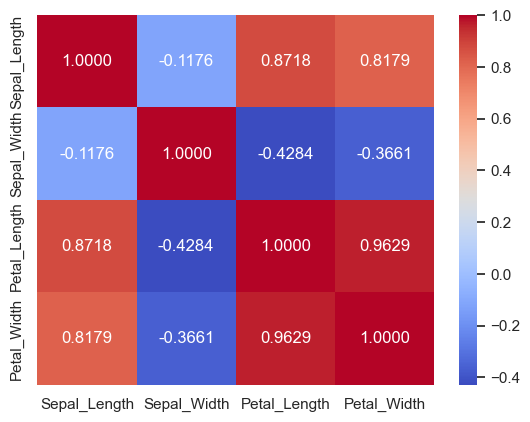
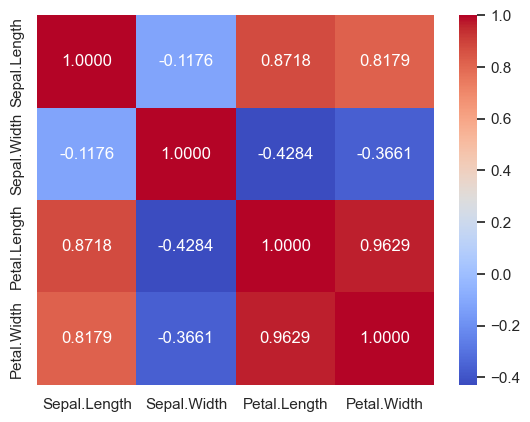
update correlation_analysis update post about correlation_analysis and correlation_coef remove useless image files

diff --git a/_posts/dataanalysis/2023-03-07-correlation_analysis.md b/_posts/dataanalysis/2023-03-07-correlation_analysis.md
@@ -1,0 +1,174 @@
+---
+published: true
+layout: post
+title: '[상관분석] 상관 관계 분석하기'
+description: >
+    Python으로 상관 분석 하는 방법
+categories: [DataAnalysis]
+tags: [correlation, pandas]
+image:
+    path: /assets/img/posts/thumbnail_correlation_coefficient.png
+related_posts:
+    - _posts/dataanalysis/2022-07-15-correlation_coef.md
+---
+* toc
+{:toc}
+
+## 간단한 상관 분석 방법
+
+**상관 분석(correlation analysis)**은 한 변수의 변화에 따른 다른 변수의 변화 정도와 방향(상관 관계)을 확인하는 분석기법으로, 두 변수 사이의 통계적 관계를 표현하기 위해 특정한 상관 관계의 정도를 수치적으로 나타낸 수치인 **상관 계수(correlation coefficient)**를 통해 상관의 정도를 파악한다.  
+
+상관 계수는 **-1에서 1 사이의 값**을 지니며, 부호는 상관 관계의 방향, 수치는 상관의 정도를 나타낸다. 데이터 분석에 있어서 요구되는 상관 계수의 수치는 분석 대상에 따라 달라지는데, 대체로 사회과학에서는 수치가 조금 낮아도 강력한 상관관계로 해석하며 오히려 너무 높은 상관 관계는 데이터 조작을 의심하게 되지만, 반대로 공학계통에서는 높은 상관관계를 요구한다.  
+
+### 상관 계수 테이블
+
+데이터 분석 과정에서 상관 관계를 분석할 때, 아래와 같이 pandas의 [`corr` 메서드](https://pandas.pydata.org/docs/reference/api/pandas.DataFrame.corr.html)를 사용해서 간단하게 처리할 수 있다.  
+
+```python
+import pydataset as pds
+
+df = pds.data('iris').reset_index(drop=True)
+corr = df.corr()
+
+print(corr)
+```
+```
+              Sepal.Length  Sepal.Width  Petal.Length  Petal.Width
+Sepal.Length      1.000000    -0.117570      0.871754     0.817941
+Sepal.Width      -0.117570     1.000000     -0.428440    -0.366126
+Petal.Length      0.871754    -0.428440      1.000000     0.962865
+Petal.Width       0.817941    -0.366126      0.962865     1.000000
+```
+
+### 상관 계수 시각화
+
+아래와 같이 matplotlib 라이브러리와 seaborn 라이브러리를 사용하면 요약된 시각화도 간단하게 작성할 수 있다.  
+
+```python
+import matplotlib.pyplot as plt
+import seaborn as sns
+
+sns.set(font_scale=1)
+
+fig, ax = plt.subplots()
+ax = sns.heatmap(
+    data=corr,
+    cmap=plt.cm.coolwarm,
+    annot=True,
+    fmt='.4f',
+)
+
+plt.savefig(fname='iris_corr.png', bbox_inches='tight')
+plt.show()
+```
+
+![iris_corr](/assets/img/posts/iris_corr.png)
+{:.text-center}
+
+## 필요한 칼럼만 골라서 분석하기
+
+### 간단한 함수를 사용한 계산
+
+앞의 방법으로 상관 분석을 진행하면 전체 칼럼의 전체 칼럼에 대한 상관 계수를 분석을 진행하기 때문에 그다지 필요하지 않은 칼럼 간의 상관 계수도 전부 계산되고, 칼럼이 많아지면 내용이 잘 보이지도 않는다.  
+
+그래서 아래와 같이 필요한 칼럼만 골라서 테이블과 함께 입력하면 해당 칼럼끼리만 상관 계수를 계산해주는 함수를 만들어보았다.  
+
+```python
+import numpy as np
+import pandas as pd
+
+
+def pearson_series(x: pd.Series, y: pd.Series) -> float:
+    """returns pearson r correlation coefficient of only two array"""
+
+    df = pd.concat([x, y], axis=1)
+    df.dropna(inplace=True)
+    return np.corrcoef(df.iloc[:, 0], df.iloc[:, 1])[0][1]
+
+
+def pearson_df(df: pd.DataFrame, list_a: list, list_b: list) -> pd.DataFrame:
+    """returns pearson r correlation coefficient of just few columns"""
+
+    res = [{'a': a, 'b': b, 'pearson_r': pearson_series(df[a], df[b])} for a in list_a for b in list_b]
+    return pd.DataFrame(res)
+```
+
+pandas의 `corr` 메서드와는 달리 데이터 타입이 numeric이 아닌 칼럼을 자동으로 제외해주지는 않지만, 어차피 분석가가 직접 칼럼을 고르기 때문에 별로 상관 없을 것 같다.  
+
+실제 데이터프레임에 적용해보면 아래와 같다.  
+
+```python
+data = {
+    "a": [1, 2, np.nan, 3],
+    "b": [3, 5, 8, 10],
+    "c": [1, 2, 3, 4],
+    "d": [5, 6, 7, 8]
+}
+
+df = pd.DataFrame.from_dict(data=data)
+print(df.head())
+```
+```
+     a   b  c  d
+0  1.0   3  1  5
+1  2.0   5  2  6
+2  NaN   8  3  7
+3  3.0  10  4  8
+```
+
+```python
+print(pearson_series(df['a'], df['c']))
+```
+```
+0.9819805060619656
+```
+
+```python
+list_x = list(df.columns)[:2]
+list_y = list(df.columns)[2:]
+
+res = pearson_df(df=df, list_a=list_x, list_b=list_y)
+# res['pearson_r'] = res['pearson_r'].map('{:,.10f}'.format)
+res['pearson_r'] = [f'{x:,.10f}' for x in res['pearson_r']]
+print(res)
+```
+```
+   a  b     pearson_r
+0  a  c  0.9819805061
+1  a  d  0.9819805061
+2  b  c  0.9965457582
+3  b  d  0.9965457582
+```
+
+### 골라낸 칼럼만 시각화
+
+상관 분석 결과는 시각화로 제시하는 경우도 많은데, 히트맵은 프리젠테이션에 적합하지는 않아서 개인적으로는 필요한 칼럼만 골라내서 일일이 산점도로 시각화하는 것을 더 선호한다.  
+
+골라낸 칼럼들의 상관 분석을 산점도로 시각화 하는 코드는 아래와 같다.  
+
+```python
+import matplotlib.pyplot as plt
+import seaborn as sns
+import pydataset as pds
+
+df = pds.data('iris').reset_index(drop=True)
+df.columns = [i.replace('.', '_') for i in df.columns]
+corr = df.corr()
+
+list_x = list(df.columns)[:2]
+list_y = list(df.columns)[2:-1]
+
+fig, axes = plt.subplots(
+    nrows=len(list_x),
+    ncols=len(list_y),
+    figsize=(16, 16),
+)
+
+[sns.scatterplot(data=df, x=x, y=y, ax=axes[i][j], hue=df['Species'])
+    for i, x in enumerate(list_x) for j, y in enumerate(list_y)]
+
+plt.savefig(fname='iris_corr_scatter.png', bbox_inches='tight')
+plt.show()
+```
+
+![iris_corr_scatter](/assets/img/posts/iris_corr_scatter.png)

diff --git a/_posts/dataanalysis/2022-07-15-correlation_coef.md b/_posts/dataanalysis/2022-07-15-correlation_coef.md
@@ -9,7 +9,7 @@ tags: [correlation]
 image:
     path: /assets/img/posts/thumbnail_correlation_coefficient.png
 related_posts:
-    - _posts/category/0000-01-01-format_post.md
+    - _posts/dataanalysis/2023-03-07-correlation_analysis.md
 ---
 * toc
 {:toc}
